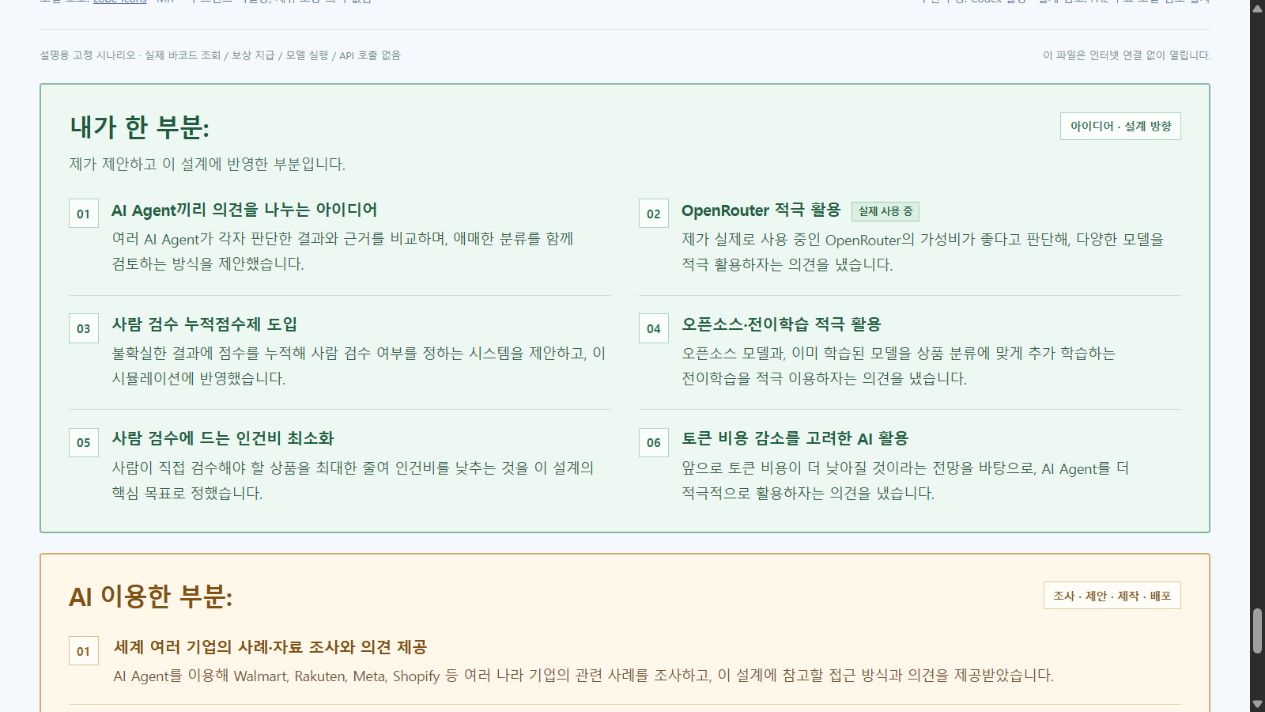
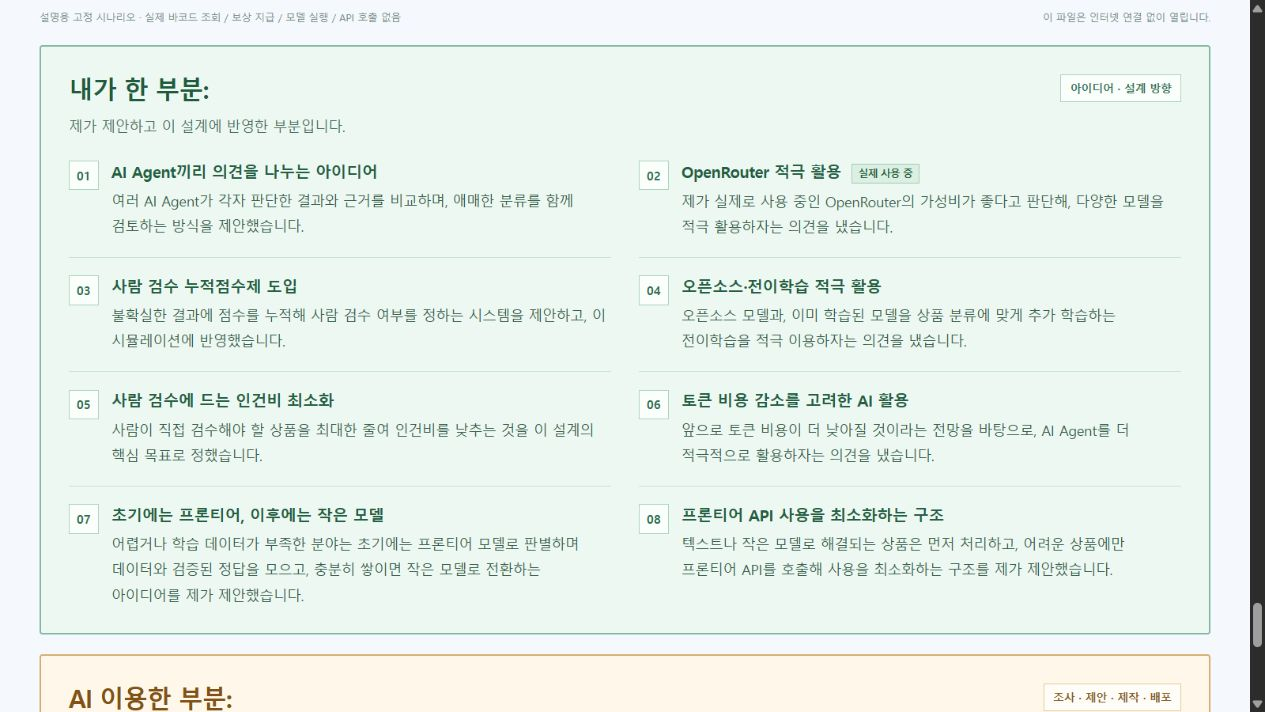
Credit author for frontier bootstrap and small-model transition ideas

diff --git a/index.html b/index.html
@@ -1055,6 +1055,8 @@ SOFTWARE.
   <li><span class="my-contribution-number" aria-hidden="true">04</span><div><h3>오픈소스·전이학습 적극 활용</h3><p>오픈소스 모델과, 이미 학습된 모델을 상품 분류에 맞게 추가 학습하는 전이학습을 적극 이용하자는 의견을 냈습니다.</p></div></li>
   <li><span class="my-contribution-number" aria-hidden="true">05</span><div><h3>사람 검수에 드는 인건비 최소화</h3><p>사람이 직접 검수해야 할 상품을 최대한 줄여 인건비를 낮추는 것을 이 설계의 핵심 목표로 정했습니다.</p></div></li>
   <li><span class="my-contribution-number" aria-hidden="true">06</span><div><h3>토큰 비용 감소를 고려한 AI 활용</h3><p>앞으로 토큰 비용이 더 낮아질 것이라는 전망을 바탕으로, AI Agent를 더 적극적으로 활용하자는 의견을 냈습니다.</p></div></li>
+  <li><span class="my-contribution-number" aria-hidden="true">07</span><div><h3>초기에는 프론티어, 이후에는 작은 모델</h3><p>어렵거나 학습 데이터가 부족한 분야는 초기에는 프론티어 모델로 판별하며 데이터와 검증된 정답을 모으고, 충분히 쌓이면 작은 모델로 전환하는 아이디어를 제가 제안했습니다.</p></div></li>
+  <li><span class="my-contribution-number" aria-hidden="true">08</span><div><h3>프론티어 API 사용을 최소화하는 구조</h3><p>텍스트나 작은 모델로 해결되는 상품은 먼저 처리하고, 어려운 상품에만 프론티어 API를 호출해 사용을 최소화하는 구조를 제가 제안했습니다.</p></div></li>
  </ol>
 </section>
 

diff --git a/README.md b/README.md
@@ -155,9 +155,9 @@ node tests/test-token-price.cjs
 
 ## 내가 한 부분
 
-[본인 기여 영역](https://product-category-flow.pages.dev/#my-contribution)에는 작성자가 제안한 여섯 가지를 구분해 담았습니다. AI Agent 간 의견·근거 비교, 실제 사용 중인 OpenRouter의 적극 활용, 사람 검수 누적점수제, 오픈소스·전이학습 활용, 사람 검수 인건비 최소화, 토큰 비용 감소 전망에 따른 AI 활용입니다. 이 여섯 방향은 작성자의 기여로, 사례 조사·복구 루트 제안·이미지 전용 분류기와 모델 후보 추천·웹 구현·배포는 아래의 AI 활용 영역으로 구분합니다. OpenRouter 실제 사용은 작성자가 밝힌 경험이며 이 정적 시뮬레이션의 실시간 API 호출을 뜻하지 않습니다.
+[본인 기여 영역](https://product-category-flow.pages.dev/#my-contribution)에는 작성자가 제안한 여덟 가지를 구분해 담았습니다. AI Agent 간 의견·근거 비교, 실제 사용 중인 OpenRouter의 적극 활용, 사람 검수 누적점수제, 오픈소스·전이학습 활용, 사람 검수 인건비 최소화, 토큰 비용 감소 전망에 따른 AI 활용, 어려운 분야를 초기에는 프론티어 모델로 처리하며 데이터·검증된 정답을 모은 뒤 작은 모델로 전환하는 방식, 프론티어 API 사용을 최소화하는 구조입니다. 이 여덟 방향은 작성자의 기여로, 사례 조사·복구 루트 제안·이미지 전용 분류기와 모델 후보 추천·웹 구현·배포는 아래의 AI 활용 영역으로 구분합니다. OpenRouter 실제 사용은 작성자가 밝힌 경험이며 이 정적 시뮬레이션의 실시간 API 호출을 뜻하지 않습니다.
 
-![직접 제안한 여섯 가지 아이디어와 설계 방향](assets/my-contribution.png)
+![직접 제안한 여덟 가지 아이디어와 설계 방향](assets/my-contribution.png)
 
 ## AI 이용한 부분
 
